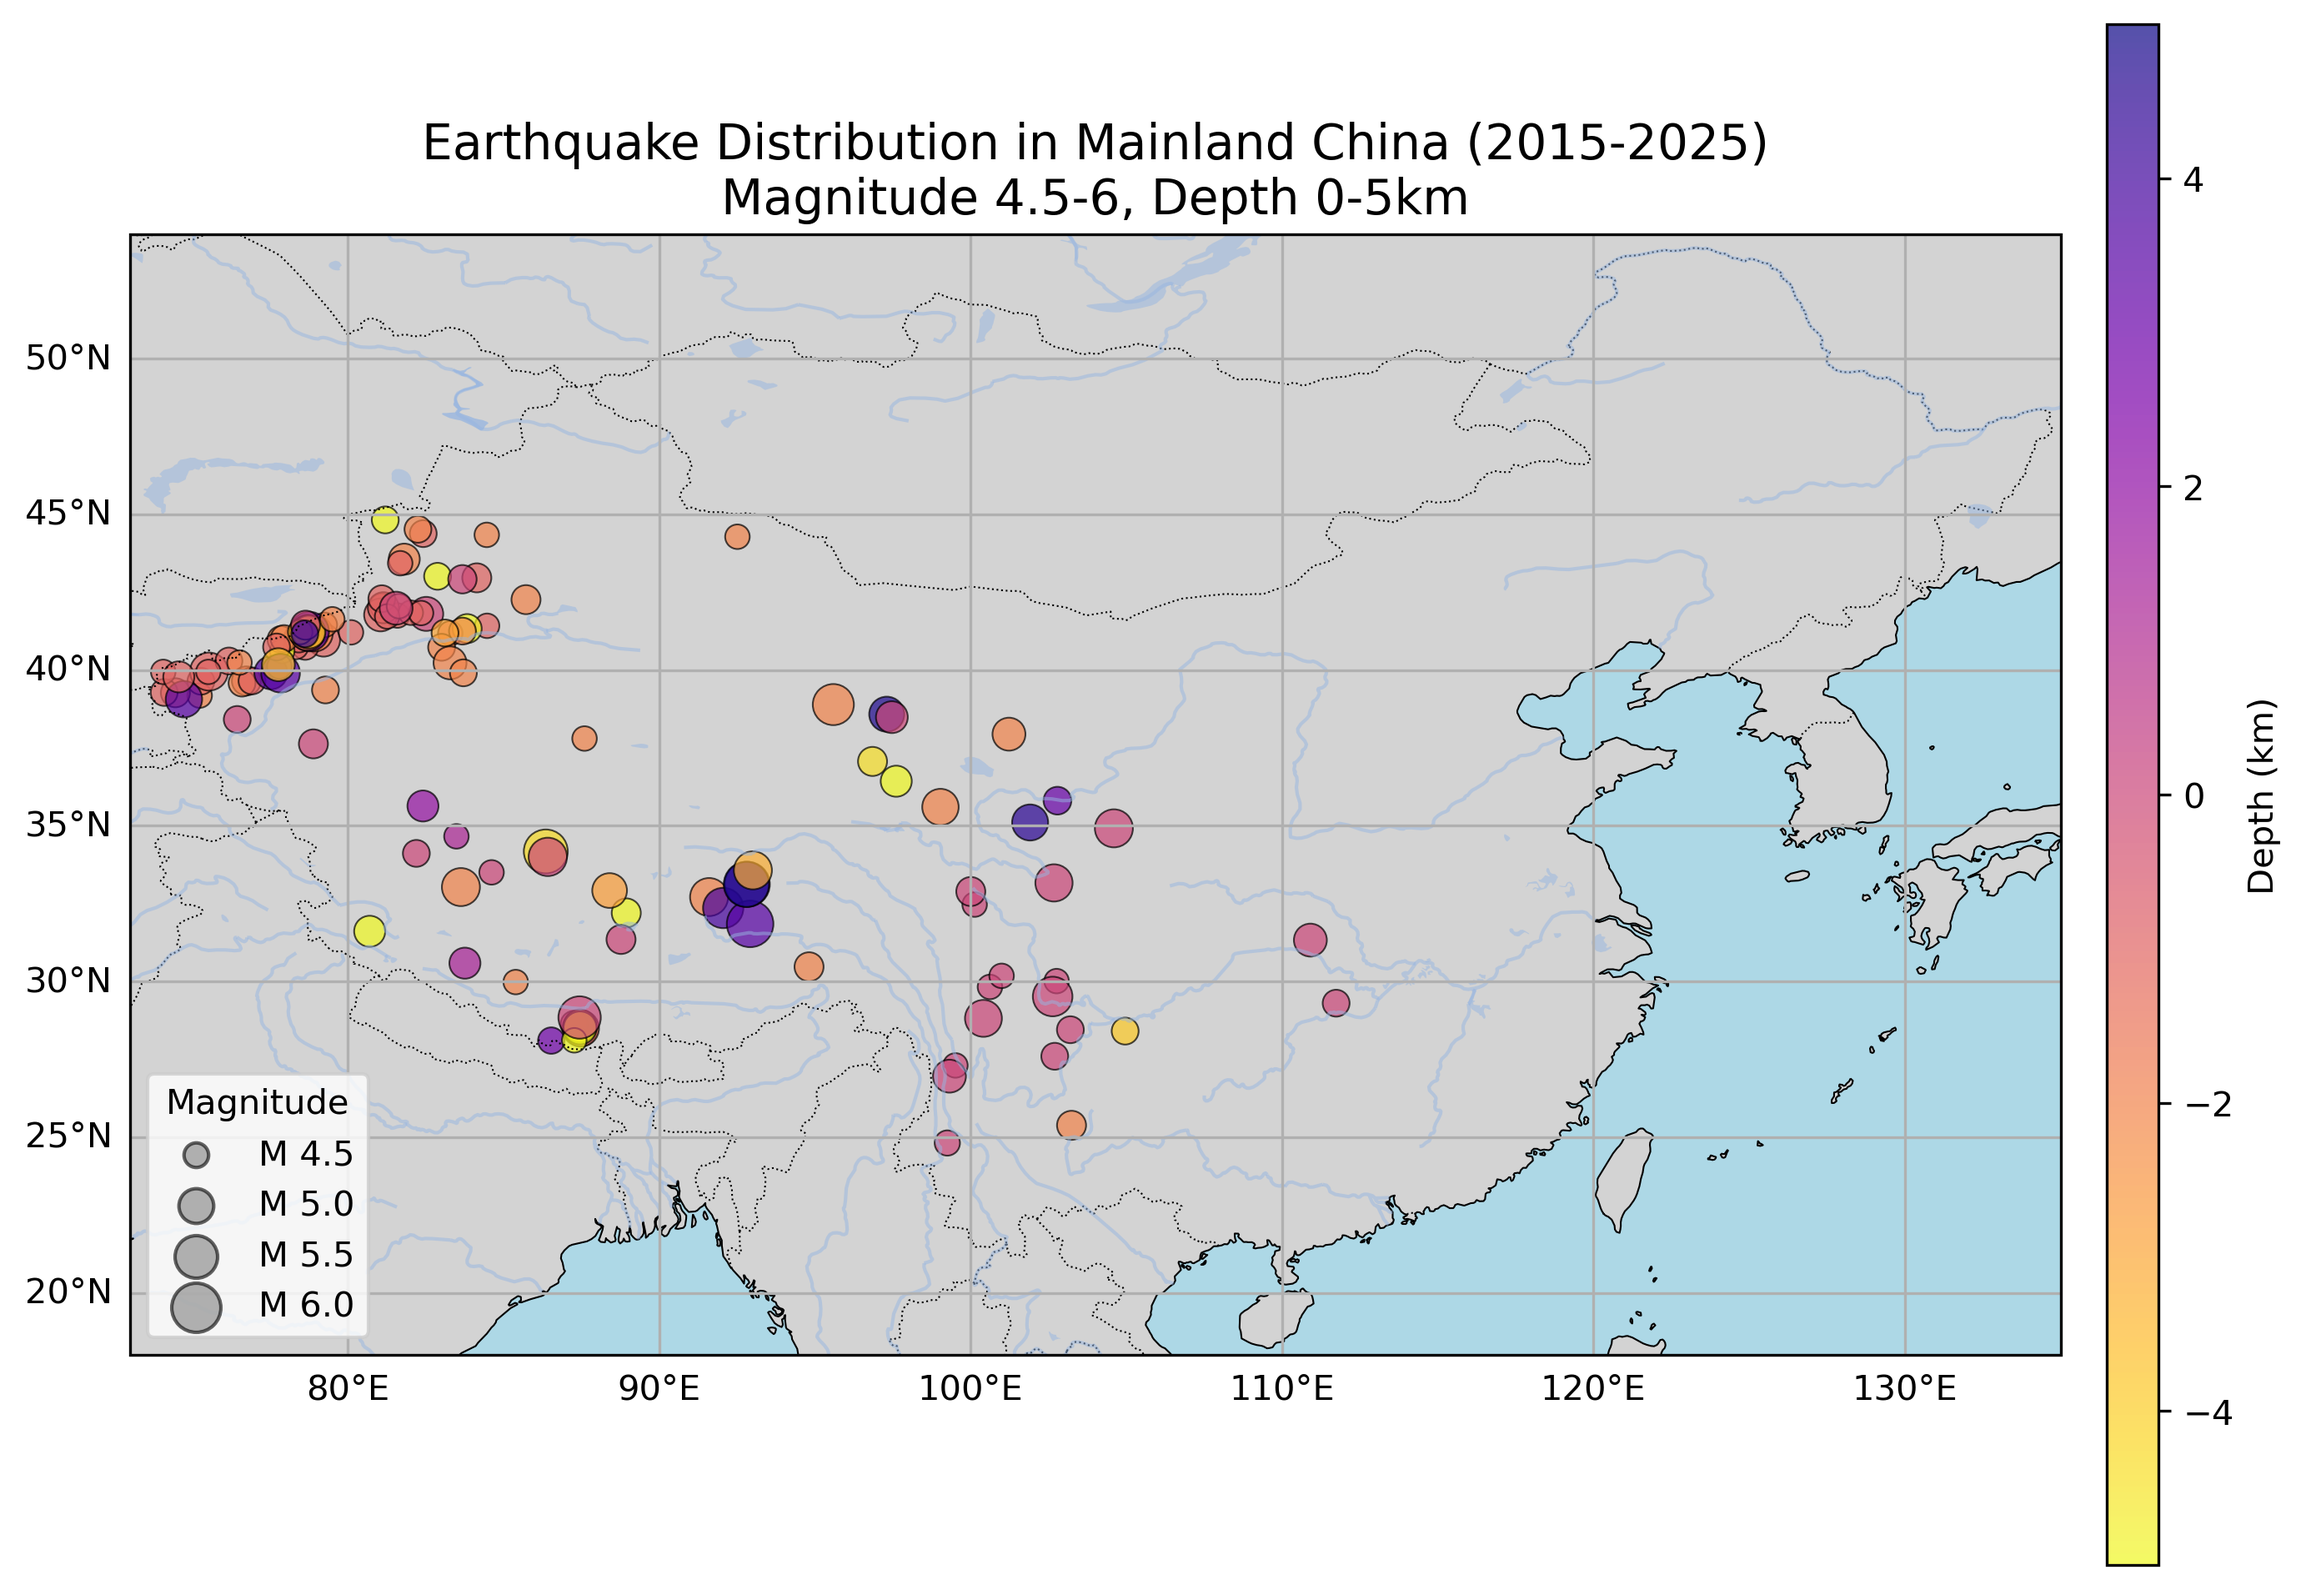
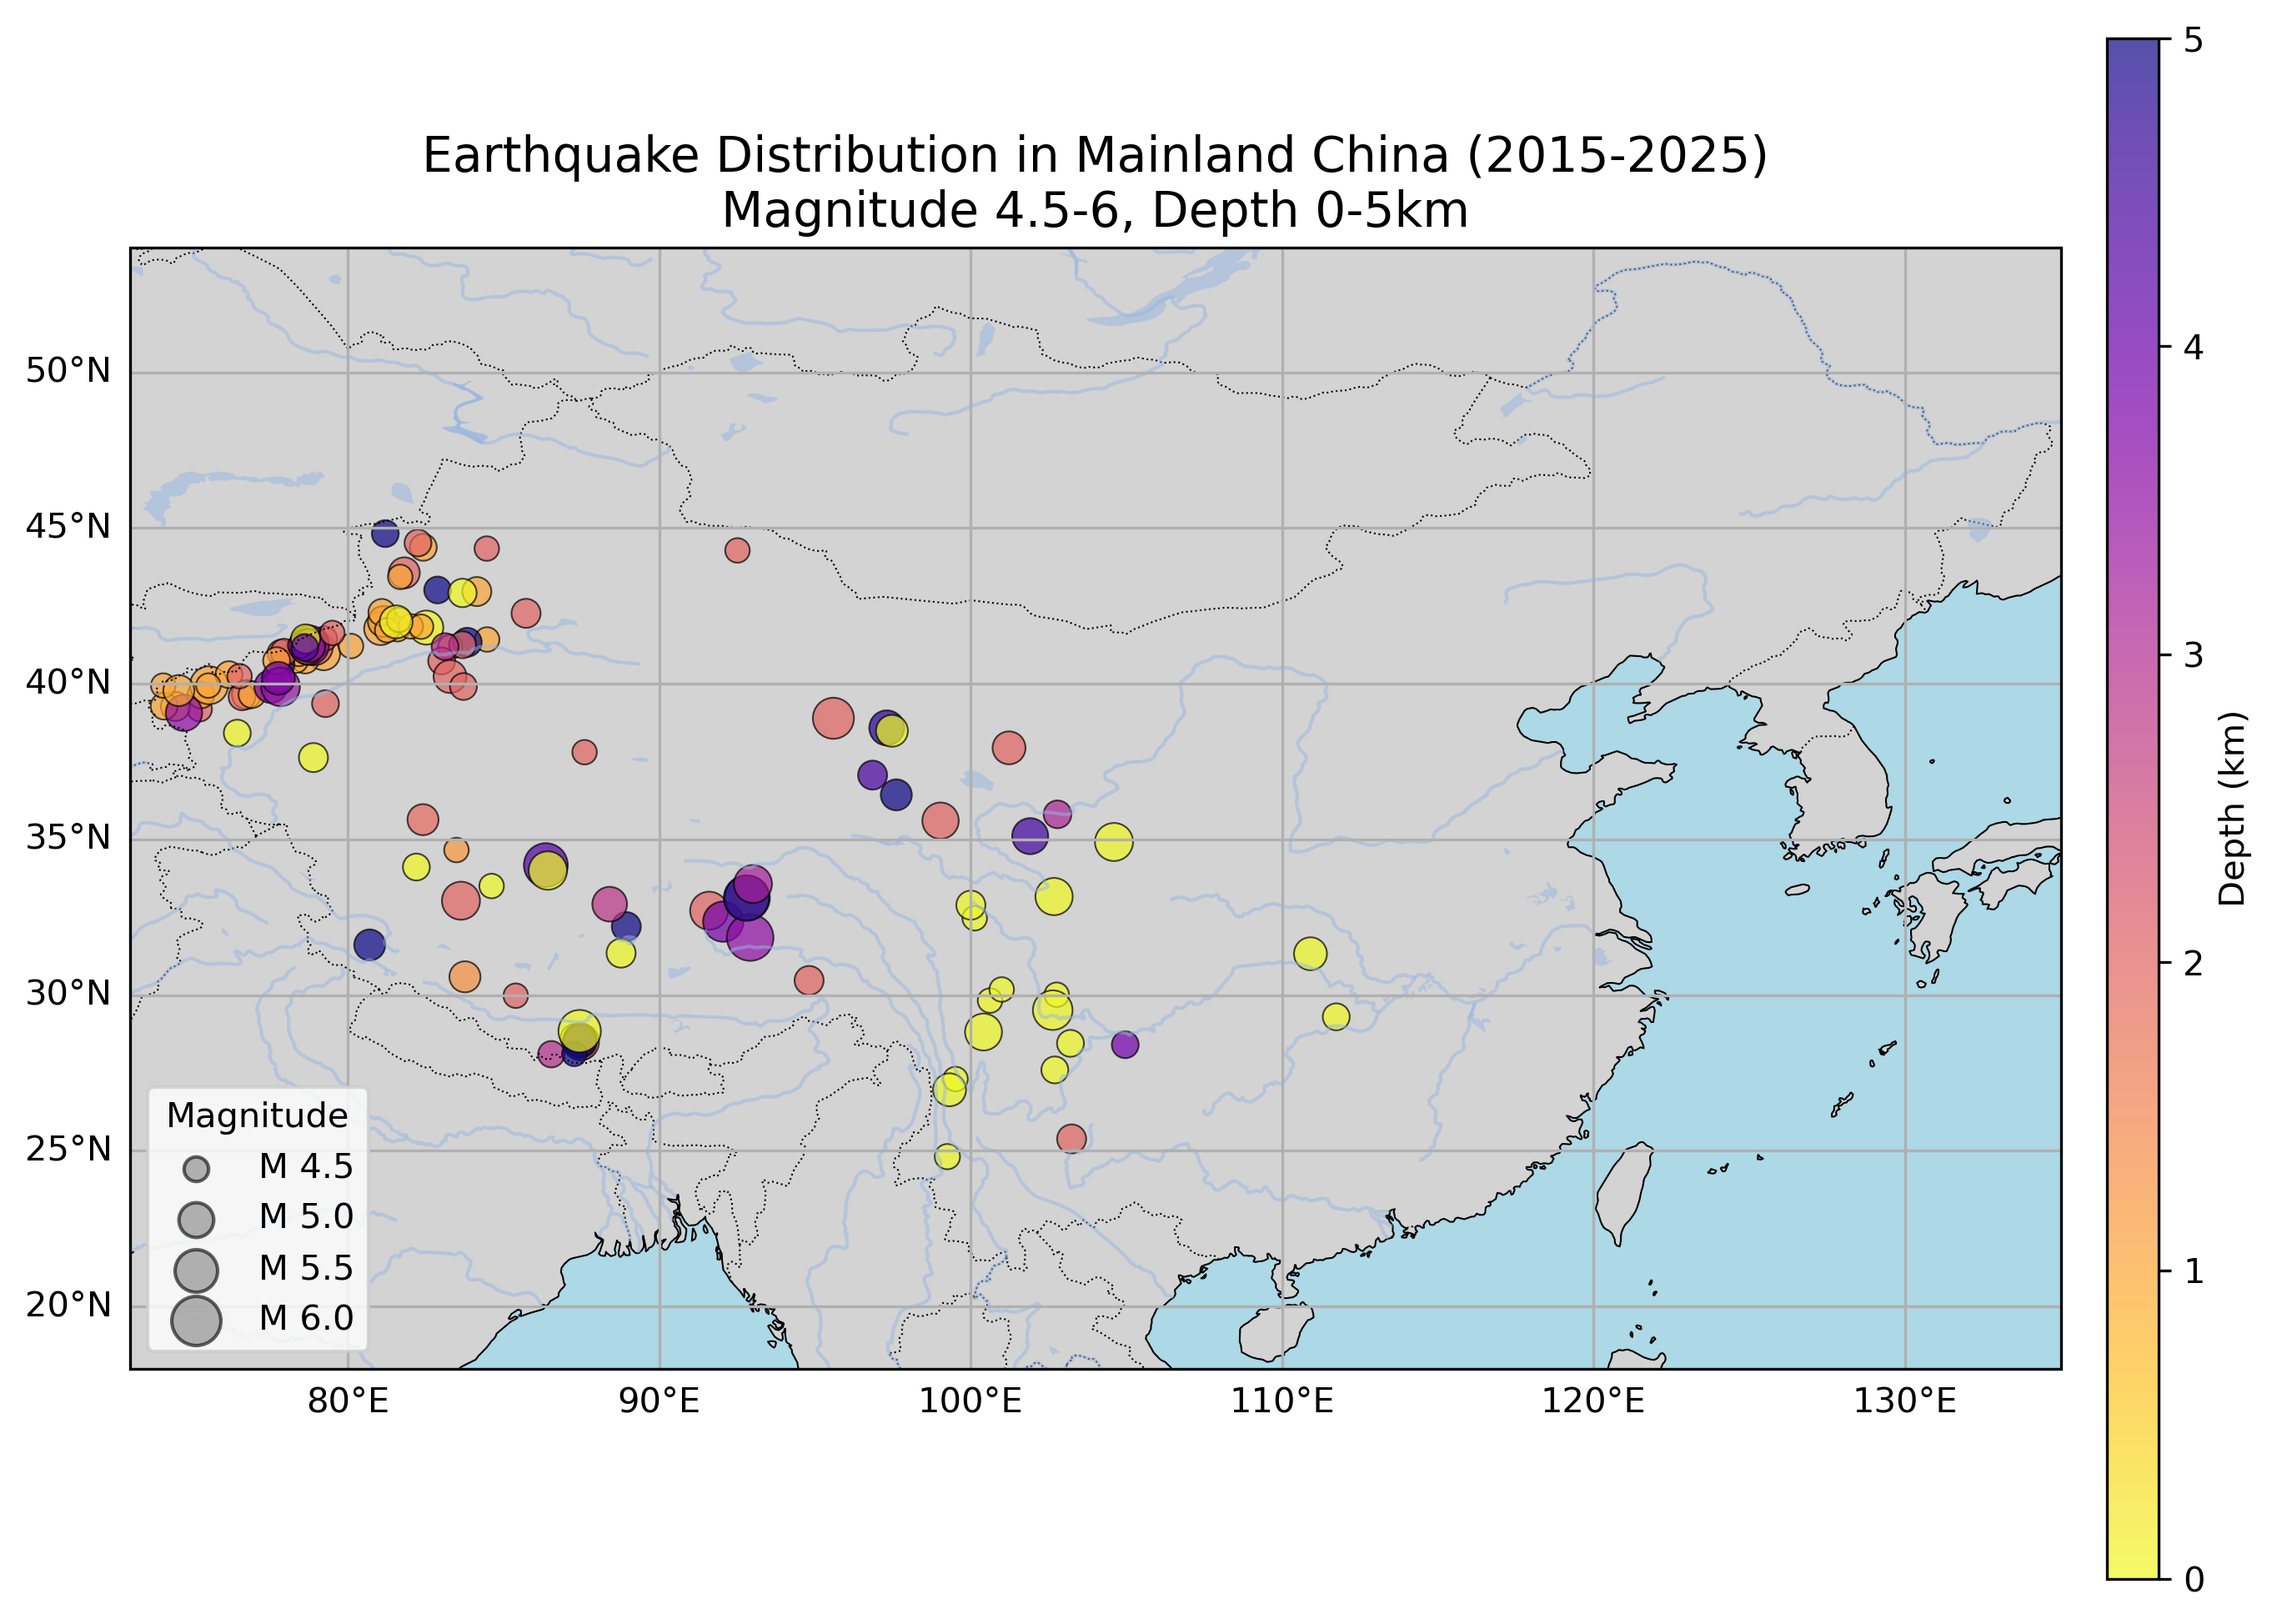
Standardize depth values to positive 0-5km

diff --git a/plot_quakes.py b/plot_quakes.py
@@ -40,17 +40,22 @@ def plot_quakes():
     # Scale magnitude for better visibility
     sizes = (df['magnitude'] - 4.0) * 100
     
+    # Fix negative depth values (EMSC uses negative for fixed/default depths)
+    depths = df['depth_km'].abs().clip(0, 5)
+    
     scatter = ax.scatter(
         df['longitude'], df['latitude'],
         s=sizes,
-        c=df['depth_km'],
+        c=depths,
         cmap='plasma_r', # plasma_r: shallow is bright/warm, deep is cool
+        vmin=0, vmax=5,  # Fixed colorbar range
         alpha=0.7,
         edgecolors='black',
         linewidth=0.5,
         transform=ccrs.PlateCarree(),
         label='Earthquakes'
     )
+
 
     # Add colorbar for depth
     cbar = plt.colorbar(scatter, ax=ax, orientation='vertical', pad=0.02, aspect=30)

diff --git a/fetch_quakes.py b/fetch_quakes.py
@@ -272,7 +272,10 @@ def main():
         for row in unique_data:
             out_row = row.copy()
             out_row["time"] = row["time"].strftime('%Y-%m-%d %H:%M:%S')
+            # Standardize depth to positive 0-5km
+            out_row["depth_km"] = min(max(abs(row["depth_km"]), 0), 5)
             dict_writer.writerow(out_row)
+
     
     print(f"\n✓ Saved {len(unique_data)} records to {csv_file}")
     print("="*60)
